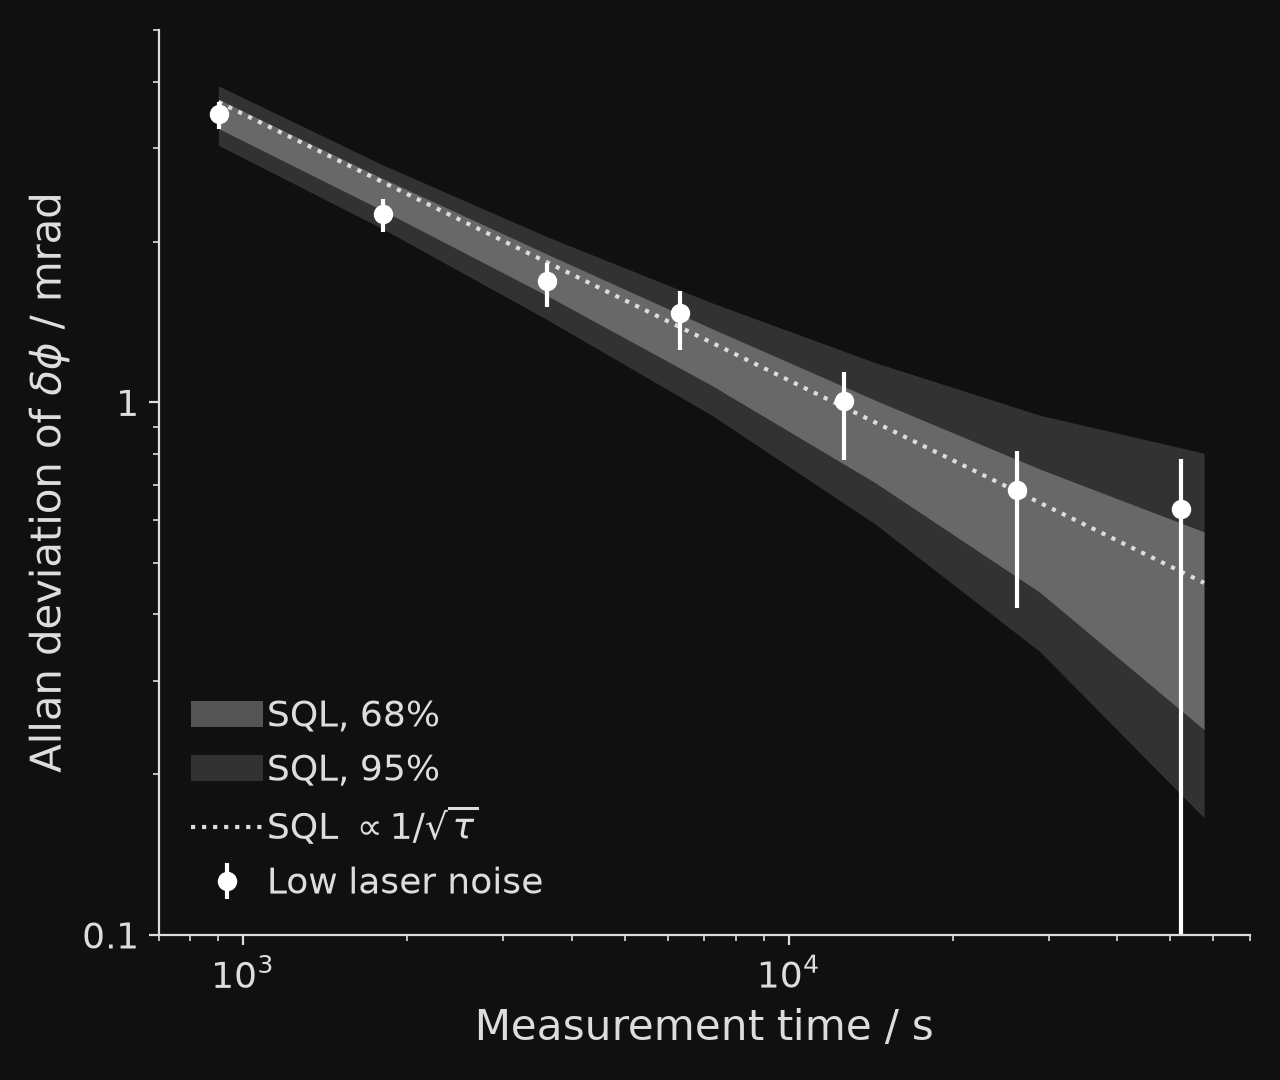
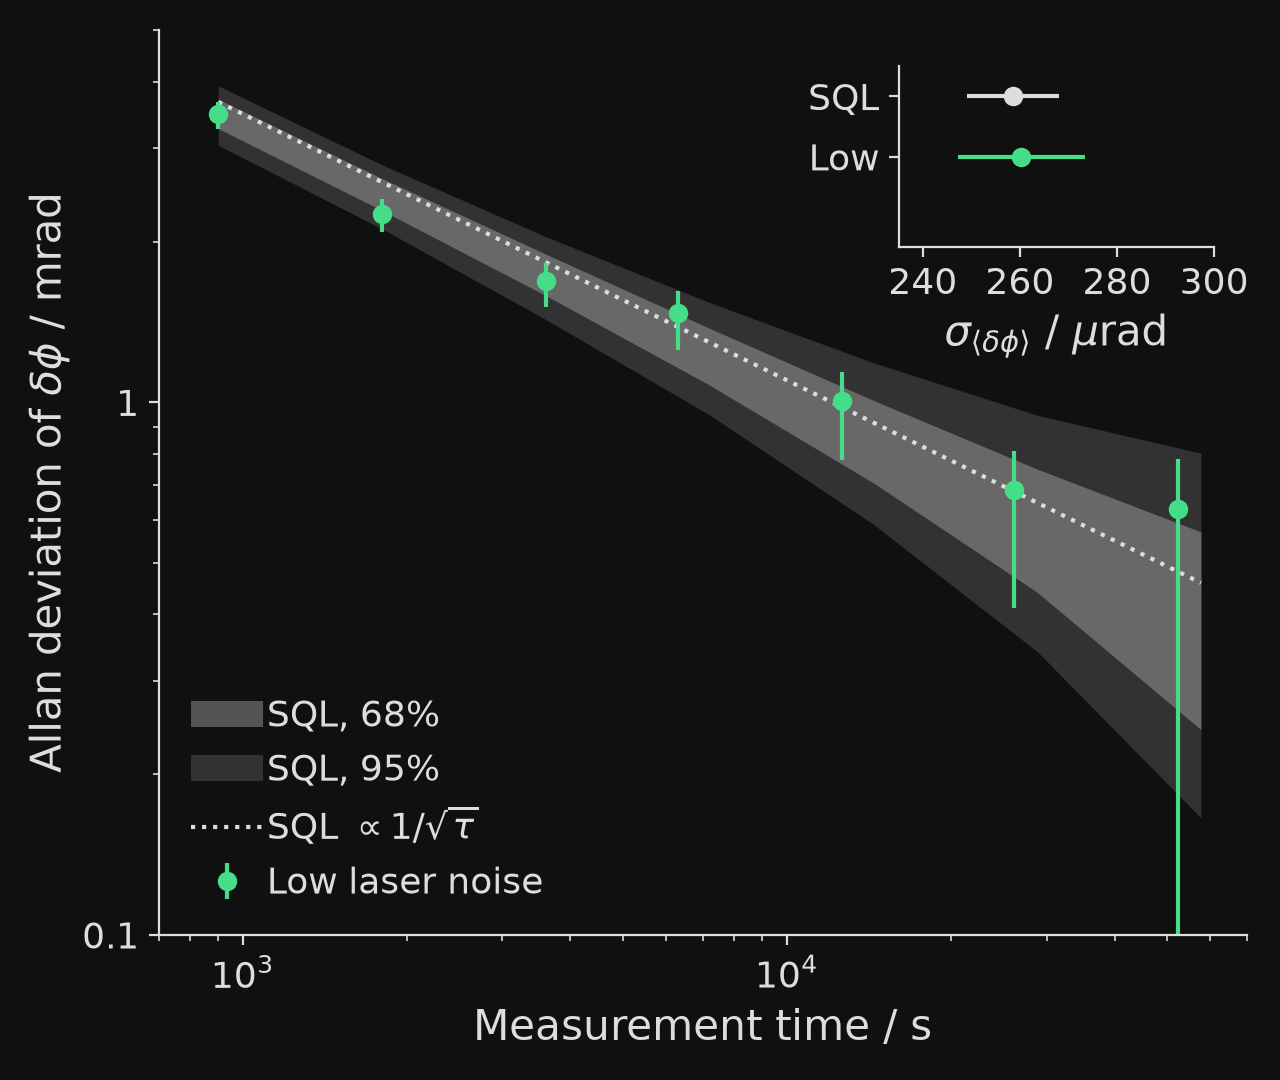
Allan deviation: add the paper's sigma_<dphi> inset; LLN in green
process_dai_adev.py now also works out Fig. 4c's inset as the notebook
does -- each run's sigma_<dphi> over the whole run, and the SQL over the
same shots -- into dai_fringes/sigma.csv: HLN 275(14), LLN 260(13),
SQL 259(10) urad, matching the paper. adev_figure draws it upper right,
its rows filling in with the build-up steps.

The low-laser-noise run goes from white to a bluish green, which stands
clear of the grey SQL band; the Lissajous figures and scene follow.

diff --git a/data_scripts/process_dai_adev.py b/data_scripts/process_dai_adev.py
@@ -12,6 +12,13 @@ to ``figures/Figure_4_data.xlsx``. This script copies that workbook's
 ``src/aionanim/data/dai_fringes/adev.csv``, which is what
 ``aionanim.plots.dai_fringes`` reads.
 
+It also works out the figure's inset -- the scatter of the mean differential
+phase over each whole run, sigma_<dphi>, beside the standard quantum limit --
+as the same notebook does (its cells 26-30), from the bootstrapped per-block
+scatter in ``intermediate_data/sigma_delta_phi_*.npy``, the shot counts, and
+the paper's single-shot SQL of 43.5(1.6) mrad, and writes it to
+``src/aionanim/data/dai_fringes/sigma.csv``.
+
     .venv/bin/python data_scripts/process_dai_adev.py [data_analysis.zip]
 
 With no argument the zip is downloaded from Zenodo into a temporary directory
@@ -20,15 +27,31 @@ and its checksum checked.
 
 import csv
 import io
+import math
 import sys
 import xml.etree.ElementTree as ET
 import zipfile
 from pathlib import Path
 
-from process_dai_fringes import OUT_DIR, check_md5, fetch_zip
+import numpy as np
+
+from process_dai_fringes import OUT_DIR, RIDS, RUNS, SOURCE as SHOTS, check_md5, fetch_zip
 
 SOURCE = "data_analysis/figures/Figure_4_data.xlsx"
 SHEET = "allan_deviation"
+
+# The inset's inputs. The npy files are bootstrap samples of the scatter of
+# delta phi over one block of shots; "randomised" is the HLN run. The
+# residual timeseries are the blocks themselves, which fix the block size.
+SIGMA_SAMPLES = {
+    "lln": "data_analysis/data/intermediate_data/sigma_delta_phi_nonrandomised.npy",
+    "hln": "data_analysis/data/intermediate_data/sigma_delta_phi_randomised.npy",
+}
+BLOCKS = {
+    "lln": "data_analysis/data/2026-01-20-DAI-Analysis/residual_timeseries_LN.csv",
+    "hln": "data_analysis/data/2026-01-20-DAI-Analysis/residual_timeseries_HN.csv",
+}
+SQL_SINGLE_SHOT = (43.5e-3, 1.6e-3)  # rad, the paper's, entered by hand in the notebook
 
 # Just enough of the xlsx format to read one sheet of numbers and inline
 # strings, which is all the notebook's openpyxl writes.
@@ -59,12 +82,40 @@ def read_sheet(workbook, name):
     return rows
 
 
+def count_rows(archive, name):
+    """Data rows in a CSV in the archive, not counting comments or the header."""
+    with archive.open(name) as raw:
+        lines = io.TextIOWrapper(raw, encoding="utf-8").read().splitlines()
+    return sum(1 for line in lines if line and not line.startswith("#")) - 1
+
+
+def inset(archive):
+    """[(label, sigma, error)] in rad: each run's sigma_<dphi> over the whole
+    run, then the SQL over the same number of shots per run."""
+    shots = {run: count_rows(archive, SHOTS.format(rids=RIDS, key=key))
+             for run, (key, _) in RUNS.items()}
+    total = sum(shots.values())
+    per_block = math.floor(total / sum(count_rows(archive, f) for f in BLOCKS.values()))
+    rows = []
+    for run in ("hln", "lln"):
+        samples = np.load(io.BytesIO(archive.read(SIGMA_SAMPLES[run])))
+        mean = np.mean(samples)
+        # the notebook takes the lower of the 16/84 percentile distances
+        error = abs(np.percentile(samples, 16) - mean)
+        blocks = math.sqrt(shots[run] / per_block)
+        rows.append((run.upper(), mean / blocks, error / blocks))
+    sql, sql_error = SQL_SINGLE_SHOT
+    rows.append(("SQL", sql / math.sqrt(total / 2), sql_error / math.sqrt(total / 2)))
+    return rows, total, per_block
+
+
 def main():
     zip_path = Path(sys.argv[1]) if len(sys.argv) > 1 else fetch_zip()
     check_md5(zip_path)
 
     with zipfile.ZipFile(zip_path) as archive:
         rows = read_sheet(io.BytesIO(archive.read(SOURCE)), SHEET)
+        sigmas, total, per_block = inset(archive)
 
     OUT_DIR.mkdir(parents=True, exist_ok=True)
     out = OUT_DIR / "adev.csv"
@@ -86,6 +137,26 @@ def main():
         )
         csv.writer(f).writerows(rows)
     print(f"wrote {out.relative_to(OUT_DIR.parent.parent)}: {len(rows) - 1} averaging times")
+
+    out = OUT_DIR / "sigma.csv"
+    with open(out, "w", newline="") as f:
+        f.write(
+            "# Fig. 4c inset: scatter of the mean differential phase over each whole "
+            "run, sigma_<dphi>, against the standard quantum limit\n"
+            "# From Baynham et al., arXiv:2504.09158, "
+            "doi:10.5281/zenodo.19592552 (CC BY 4.0)\n"
+            "# Computed as 'data_analysis/figures/Figure 4.ipynb' does: "
+            f"{', '.join(SIGMA_SAMPLES.values())}, over sqrt(shots per run / "
+            f"{per_block} shots per block); SQL {SQL_SINGLE_SHOT[0] * 1e3}"
+            f"({SQL_SINGLE_SHOT[1] * 1e3}) mrad per shot over sqrt({total} / 2)\n"
+            "# Columns: label; sigma_urad and err_urad, the value and its error bar\n"
+        )
+        writer = csv.writer(f)
+        writer.writerow(["label", "sigma_urad", "err_urad"])
+        for label, sigma, error in sigmas:
+            writer.writerow([label, 1e6 * sigma, 1e6 * error])
+    print(f"wrote {out.relative_to(OUT_DIR.parent.parent)}: "
+          + ", ".join(f"{label} {1e6 * s:.0f}({1e6 * e:.0f}) urad" for label, s, e in sigmas))
 
 
 if __name__ == "__main__":

diff --git a/src/aionanim/plots/dai_fringes.py b/src/aionanim/plots/dai_fringes.py
@@ -15,7 +15,9 @@ deviations ``data_scripts/process_dai_adev.py`` and the likelihood scans
   both, it draws the same axes with just that run, for building it up.
 - ``adev_figure``: the Allan deviation of the differential phase read off
   each run's ellipse, against averaging time. Both runs average down along
-  the standard quantum limit, so the laser noise has cancelled.
+  the standard quantum limit, so the laser noise has cancelled. Given the
+  inset's numbers too, it adds the paper's inset: the scatter of the mean
+  phase over each whole run, sigma_<dphi>, beside the SQL.
 - ``signals_figure``: for each of seven sinusoids, 0.1 mHz to 100 mHz,
   imprinted on the phase by a light shift, the likelihood of a sinusoid
   fitted to the differential phase against trial frequency, over the
@@ -67,6 +69,14 @@ def load(run):
 
 def load_adev():
     return load("adev")
+
+
+def load_sigma():
+    """{label: (sigma, error)} in urad for the Allan deviation's inset: "HLN",
+    "LLN" and "SQL"."""
+    with open(DATA_DIR / "sigma.csv") as f:
+        rows = csv.DictReader(line for line in f if not line.startswith("#"))
+        return {r["label"]: (float(r["sigma_urad"]), float(r["err_urad"])) for r in rows}
 
 
 def load_signals():
@@ -158,11 +168,38 @@ def lissajous_figure(runs):
     return fig
 
 
-def adev_figure(adev, runs):
+# The inset, upper right, clear of the data falling from upper left to
+# lower right. Its rows are the paper's, fixed across the build-up steps: a
+# row is only filled and labelled once its run is on the main plot.
+ADEV_INSET = [0.68, 0.76, 0.29, 0.20]  # in the main axes' fractions
+ADEV_INSET_ROWS = {"hln": (1, "High"), "lln": (2, "Low"), "sql": (3, "SQL")}
+ADEV_INSET_XLIM = (235, 300)  # urad
+
+
+def adev_inset(ax, sigma, runs):
+    """sigma_<dphi> of each run in ``runs`` beside the SQL's, as the paper's inset."""
+    inset = ax.inset_axes(ADEV_INSET)
+    shown = [("sql", PLOT_FOREGROUND)] + [(key, color) for key, color, _ in runs]
+    for key, color in shown:
+        value, error = sigma[key.upper()]
+        inset.errorbar(value, ADEV_INSET_ROWS[key][0], xerr=error, fmt="o", ms=6,
+                       elinewidth=1.5, capsize=0, color=hexed(color))
+    rows = sorted(ADEV_INSET_ROWS[key] for key, _ in shown)
+    inset.set_yticks([y for y, _ in rows], [label for _, label in rows])
+    inset.set_ylim(0.5, 3.5)
+    inset.set_xlim(*ADEV_INSET_XLIM)
+    inset.set_xticks([240, 260, 280, 300])
+    dark_axes(inset)
+    inset.set_xlabel(r"$\sigma_{\langle\delta\phi\rangle}$ / $\mu$rad")
+    return inset
+
+
+def adev_figure(adev, runs, sigma=None):
     """Allan deviation against averaging time; runs is a list of (key, color, label).
 
     The key picks a run's columns ("lln" or "hln"). The SQL is always drawn,
-    so an empty list gives the bare limit to build up from.
+    so an empty list gives the bare limit to build up from. With ``sigma``
+    (load_sigma()) the inset is drawn too, with the same runs in it.
     """
     fig, ax = plt.subplots(figsize=(6.4, 5.4))
     fig.set_facecolor(PLOT_BACKGROUND)
@@ -195,6 +232,8 @@ def adev_figure(adev, runs):
     ax.set_xlabel("Measurement time / s")
     ax.set_ylabel(r"Allan deviation of $\delta\phi$ / mrad")
     legend(ax, loc="lower left", markerscale=1)
+    if sigma is not None:
+        adev_inset(ax, sigma, runs)
     fig.tight_layout()
     return fig
 

diff --git a/src/aionanim/style.py b/src/aionanim/style.py
@@ -257,13 +257,16 @@ TEST_MASS_DOT_RADIUS = 0.06
 # of the gradiometer, not two states, so they take neither state colour: the
 # lower one gets the cool crest shade and the upper one the warm rim light,
 # which sample as far apart as anything in the talk. Across the noise runs
-# the split is the phase budget's: white for the quiet laser, whose ellipse
-# is the signal, and laser red for the one with phase noise put on it.
+# the split is the phase budget's: green for the quiet laser, whose ellipse
+# is the signal, and laser red for the one with phase noise put on it. Green
+# rather than white, which sank into the grey of the SQL band; a bluish green,
+# kept apart from the light shift's, and further from the red for anyone
+# red-green colour-blind.
 PLOT_BACKGROUND = "#101010"  # manim.cfg's background_color
 PLOT_FOREGROUND = "#dddddd"  # axes, ticks and labels
 LOWER_CLOUD_COLOR = CREST_COLOR
 UPPER_CLOUD_COLOR = HORIZON_GLOW
-LLN_COLOR = SIGNAL_COLOR
+LLN_COLOR = ManimColor("#44dd88")
 HLN_COLOR = NOISE_COLOR
 # The standard quantum limit the two runs' Allan deviations are held against
 # is a reference, not a measurement, so it takes the guide grey: the paper's

diff --git a/plot_scripts/interferometer_data.py b/plot_scripts/interferometer_data.py
@@ -23,6 +23,7 @@ from aionanim.plots.dai_fringes import (
     lissajous_figure,
     load,
     load_adev,
+    load_sigma,
     load_signals,
     signals_figure,
 )
@@ -47,12 +48,12 @@ def main():
     save(lissajous_figure([quiet, noisy]), "lissajous")
     save(lissajous_figure([quiet]), "lissajous_lln")
     save(lissajous_figure([noisy]), "lissajous_hln")
-    adev = load_adev()
+    adev, sigma = load_adev(), load_sigma()
     quiet_adev = ("lln", LLN_COLOR, "Low laser noise")
     noisy_adev = ("hln", HLN_COLOR, "High laser noise")
-    save(adev_figure(adev, []), "adev_sql")
-    save(adev_figure(adev, [quiet_adev]), "adev_lln")
-    save(adev_figure(adev, [quiet_adev, noisy_adev]), "adev")
+    save(adev_figure(adev, [], sigma), "adev_sql")
+    save(adev_figure(adev, [quiet_adev], sigma), "adev_lln")
+    save(adev_figure(adev, [quiet_adev, noisy_adev], sigma), "adev")
     save(signals_figure(load_signals()), "signals")
 
 

diff --git a/src/aionanim/data/README.md b/src/aionanim/data/README.md
@@ -6,6 +6,7 @@ Read through `aionanim.resources.data_path(...)`.
 |---|---|---|---|
 | `dai_fringes/{lln,hln}.csv` | Shot-by-shot excitation fractions of the AION prototype differential atom interferometer, low and high laser noise | C. Baynham et al., arXiv:2504.09158; data at doi:10.5281/zenodo.19592552, extracted by `data_scripts/process_dai_fringes.py` | CC BY 4.0 |
 | `dai_fringes/adev.csv` | Allan deviation of the DAI differential phase for both runs, with the Monte Carlo SQL band (Fig. 4c) | Same paper and record: the `allan_deviation` sheet of `figures/Figure_4_data.xlsx`, extracted by `data_scripts/process_dai_adev.py` | CC BY 4.0 |
+| `dai_fringes/sigma.csv` | Fig. 4c inset: scatter of the mean differential phase over each whole run, sigma_<dphi>, for both runs and the standard quantum limit | Same paper and record: `intermediate_data/sigma_delta_phi_*.npy` and the shot counts, reduced as `figures/Figure 4.ipynb` does, by `data_scripts/process_dai_adev.py` | CC BY 4.0 |
 | `dai_fringes/signals.csv` | Likelihood of a fitted sinusoid against trial frequency for seven phases imprinted by a light shift (0.1–100 mHz), over each drive's periodogram (Fig. 5a) | Same paper and record: `signal_fitting_results_by_frequency.csv` and `precomputed_true_signals/`, reduced as `figures/Figure 5a.ipynb` does by `data_scripts/process_dai_signals.py` | CC BY 4.0 |
 | `gw_sensitivity/*.csv` | Characteristic-strain sensitivity curves of LIGO, LISA, ET, AION-km, AEDGE, AEDGE+ | Digitised from `GW_exclusion_plot.svg` (see each CSV's header for the exact path and calibration) | Belongs to the owner of the source figure: check before redistributing |
 | `images/ligo20160211a.jpg` | GW150914 as observed by LIGO Hanford and Livingston | LIGO press release, 11 Feb 2016 | Credit Caltech/MIT/LIGO Laboratory |
